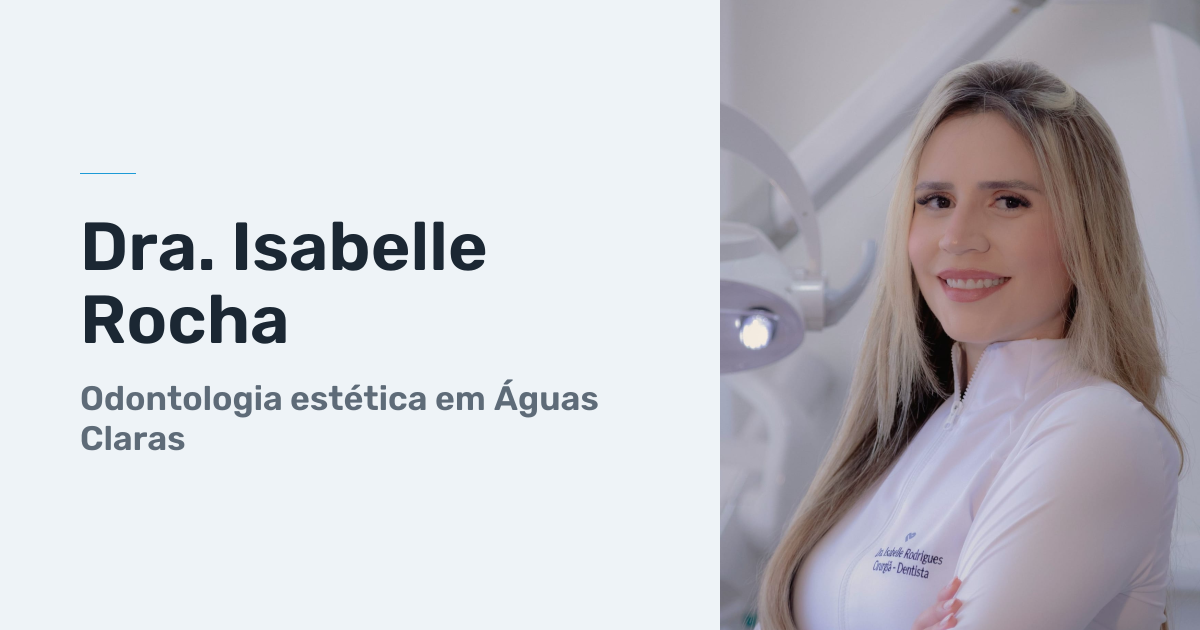
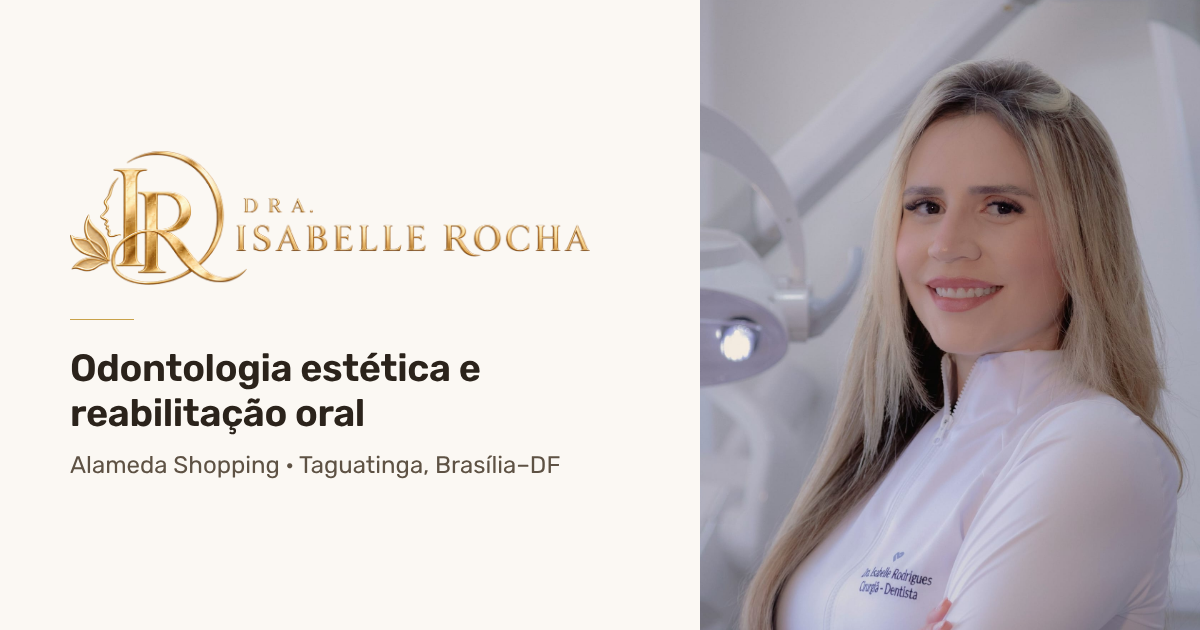
Endereço do consultório no Alameda Shopping, Taguatinga
Claude-Session: https://claude.ai/code/session_01HvyuUryjNsSX3R3o6Vs4Ht

diff --git a/src/content/site.ts b/src/content/site.ts
@@ -52,19 +52,24 @@ export const site = {
       "Olá, Dra. Isabelle! Conheci seu trabalho pelo site e gostaria de agendar uma avaliação.",
     instagramHandle: "@dra.isabellerrs",
     instagramUrl: "https://www.instagram.com/dra.isabellerrs/",
-    neighborhood: "Águas Claras",
+    neighborhood: "Taguatinga",
     city: "Brasília",
     state: "DF",
     /** Endereço completo (rua, número, sala, CEP). A confirmar. */
-    address: null as string | null,
+    address: "Alameda Shopping, Torre A, Sala 105 – CSB 02, Lotes 01/04, Taguatinga, Brasília–DF, CEP 72015-901" as string | null,
+    addressShort: "Alameda Shopping, Torre A, Sala 105 – Taguatinga",
+    mapsUrl: "https://www.google.com/maps/search/?api=1&query=Alameda+Shopping+Torre+A+Sala+105+CSB+02+Taguatinga+Bras%C3%ADlia+DF",
+    /** Partes do endereço para dados estruturados e Google Meu Negócio. */
+    street: "CSB 02, Lotes 01/04, Torre A, Sala 105 (Alameda Shopping)",
+    postalCode: "72015-901",
     /** Horário de atendimento. A confirmar. Ex.: "Seg. a sex., 8h às 18h". */
     hours: null as string | null,
   },
 
   seo: {
-    title: "Dra. Isabelle Rocha | Odontologia Estética em Águas Claras",
+    title: "Dra. Isabelle Rocha | Odontologia Estética em Taguatinga",
     description:
-      "Conheça a Dra. Isabelle Rocha. Odontologia estética, implantodontia e reabilitação oral em Águas Claras, Brasília. Entre em contato e agende sua avaliação.",
+      "Conheça a Dra. Isabelle Rocha. Odontologia estética, implantodontia e reabilitação oral em Taguatinga, Brasília. Entre em contato e agende sua avaliação.",
   },
 
   images: {
@@ -112,7 +117,7 @@ export const site = {
     credentials: [
       { label: "Registro", value: null },
       { label: "Formação", value: "Cirurgiã-dentista" },
-      { label: "Atendimento", value: "IOSP Odontologia Integrada, Águas Claras" },
+      { label: "Atendimento", value: "Alameda Shopping, Taguatinga" },
     ] as Credential[],
   },
 

diff --git a/src/app/page.tsx b/src/app/page.tsx
@@ -26,12 +26,14 @@ function structuredData() {
     sameAs: [contact.instagramUrl],
     address: {
       "@type": "PostalAddress",
-      ...(contact.address ? { streetAddress: contact.address } : {}),
-      addressLocality: `${contact.neighborhood}, ${contact.city}`,
+      streetAddress: contact.street,
+      postalCode: contact.postalCode,
+      addressLocality: "Brasília",
+      addressSubregion: contact.neighborhood,
       addressRegion: contact.state,
       addressCountry: "BR",
     },
-    areaServed: `${contact.neighborhood}, ${contact.city}–${contact.state}`,
+    areaServed: ["Taguatinga", "Águas Claras", "Vicente Pires", "Ceilândia", "Samambaia", "Brasília"],
   };
   return JSON.stringify(data).replace(/</g, "\\u003c");
 }

diff --git a/src/components/sections/ContactForm.tsx b/src/components/sections/ContactForm.tsx
@@ -123,11 +123,10 @@ export function ContactForm() {
             </li>
             <li className="flex items-start gap-3">
               <PinIcon className="mt-1 h-4 w-4 shrink-0 text-gold" />
-              <span>
-                {contact.neighborhood}, {contact.city}–{contact.state}
-                <br />
-                {contact.address ?? <span className="pending">endereço a preencher</span>}
-              </span>
+              <a href={contact.mapsUrl} target="_blank" rel="noopener noreferrer" className="hover:underline">
+                {contact.address}
+                <span className="mt-1 block text-[0.8125rem] font-medium text-gold">Ver no mapa</span>
+              </a>
             </li>
           </ul>
         </div>

diff --git a/src/components/TopBar.tsx b/src/components/TopBar.tsx
@@ -10,7 +10,9 @@ export function TopBar() {
       <div className="container-site flex h-10 items-center justify-between gap-6">
         <p>
           <span className="font-medium text-gold">Localização:</span>{" "}
-          {contact.address ?? `${contact.neighborhood}, ${contact.city}–${contact.state}`}
+          <a href={contact.mapsUrl} target="_blank" rel="noopener noreferrer" className="hover:text-ink">
+            {contact.addressShort}
+          </a>
         </p>
         <a href={whatsappUrl()} target="_blank" rel="noopener noreferrer" className="flex items-center gap-2 hover:text-ink">
           <WhatsAppLogo className="h-[1.1rem] w-[1.1rem]" />

diff --git a/src/components/Footer.tsx b/src/components/Footer.tsx
@@ -71,9 +71,9 @@ export function Footer() {
           </li>
           <li className="flex items-start gap-2.5">
             <PinIcon className="mt-1 h-4 w-4 shrink-0 text-gold-bright" />
-            <span>
-              {contact.address ?? `${contact.neighborhood}, ${contact.city}–${contact.state}`}
-            </span>
+            <a href={contact.mapsUrl} target="_blank" rel="noopener noreferrer" className="hover:text-gold-bright">
+              {contact.address}
+            </a>
           </li>
           {contact.hours && <li>{contact.hours}</li>}
         </FooterCol>
